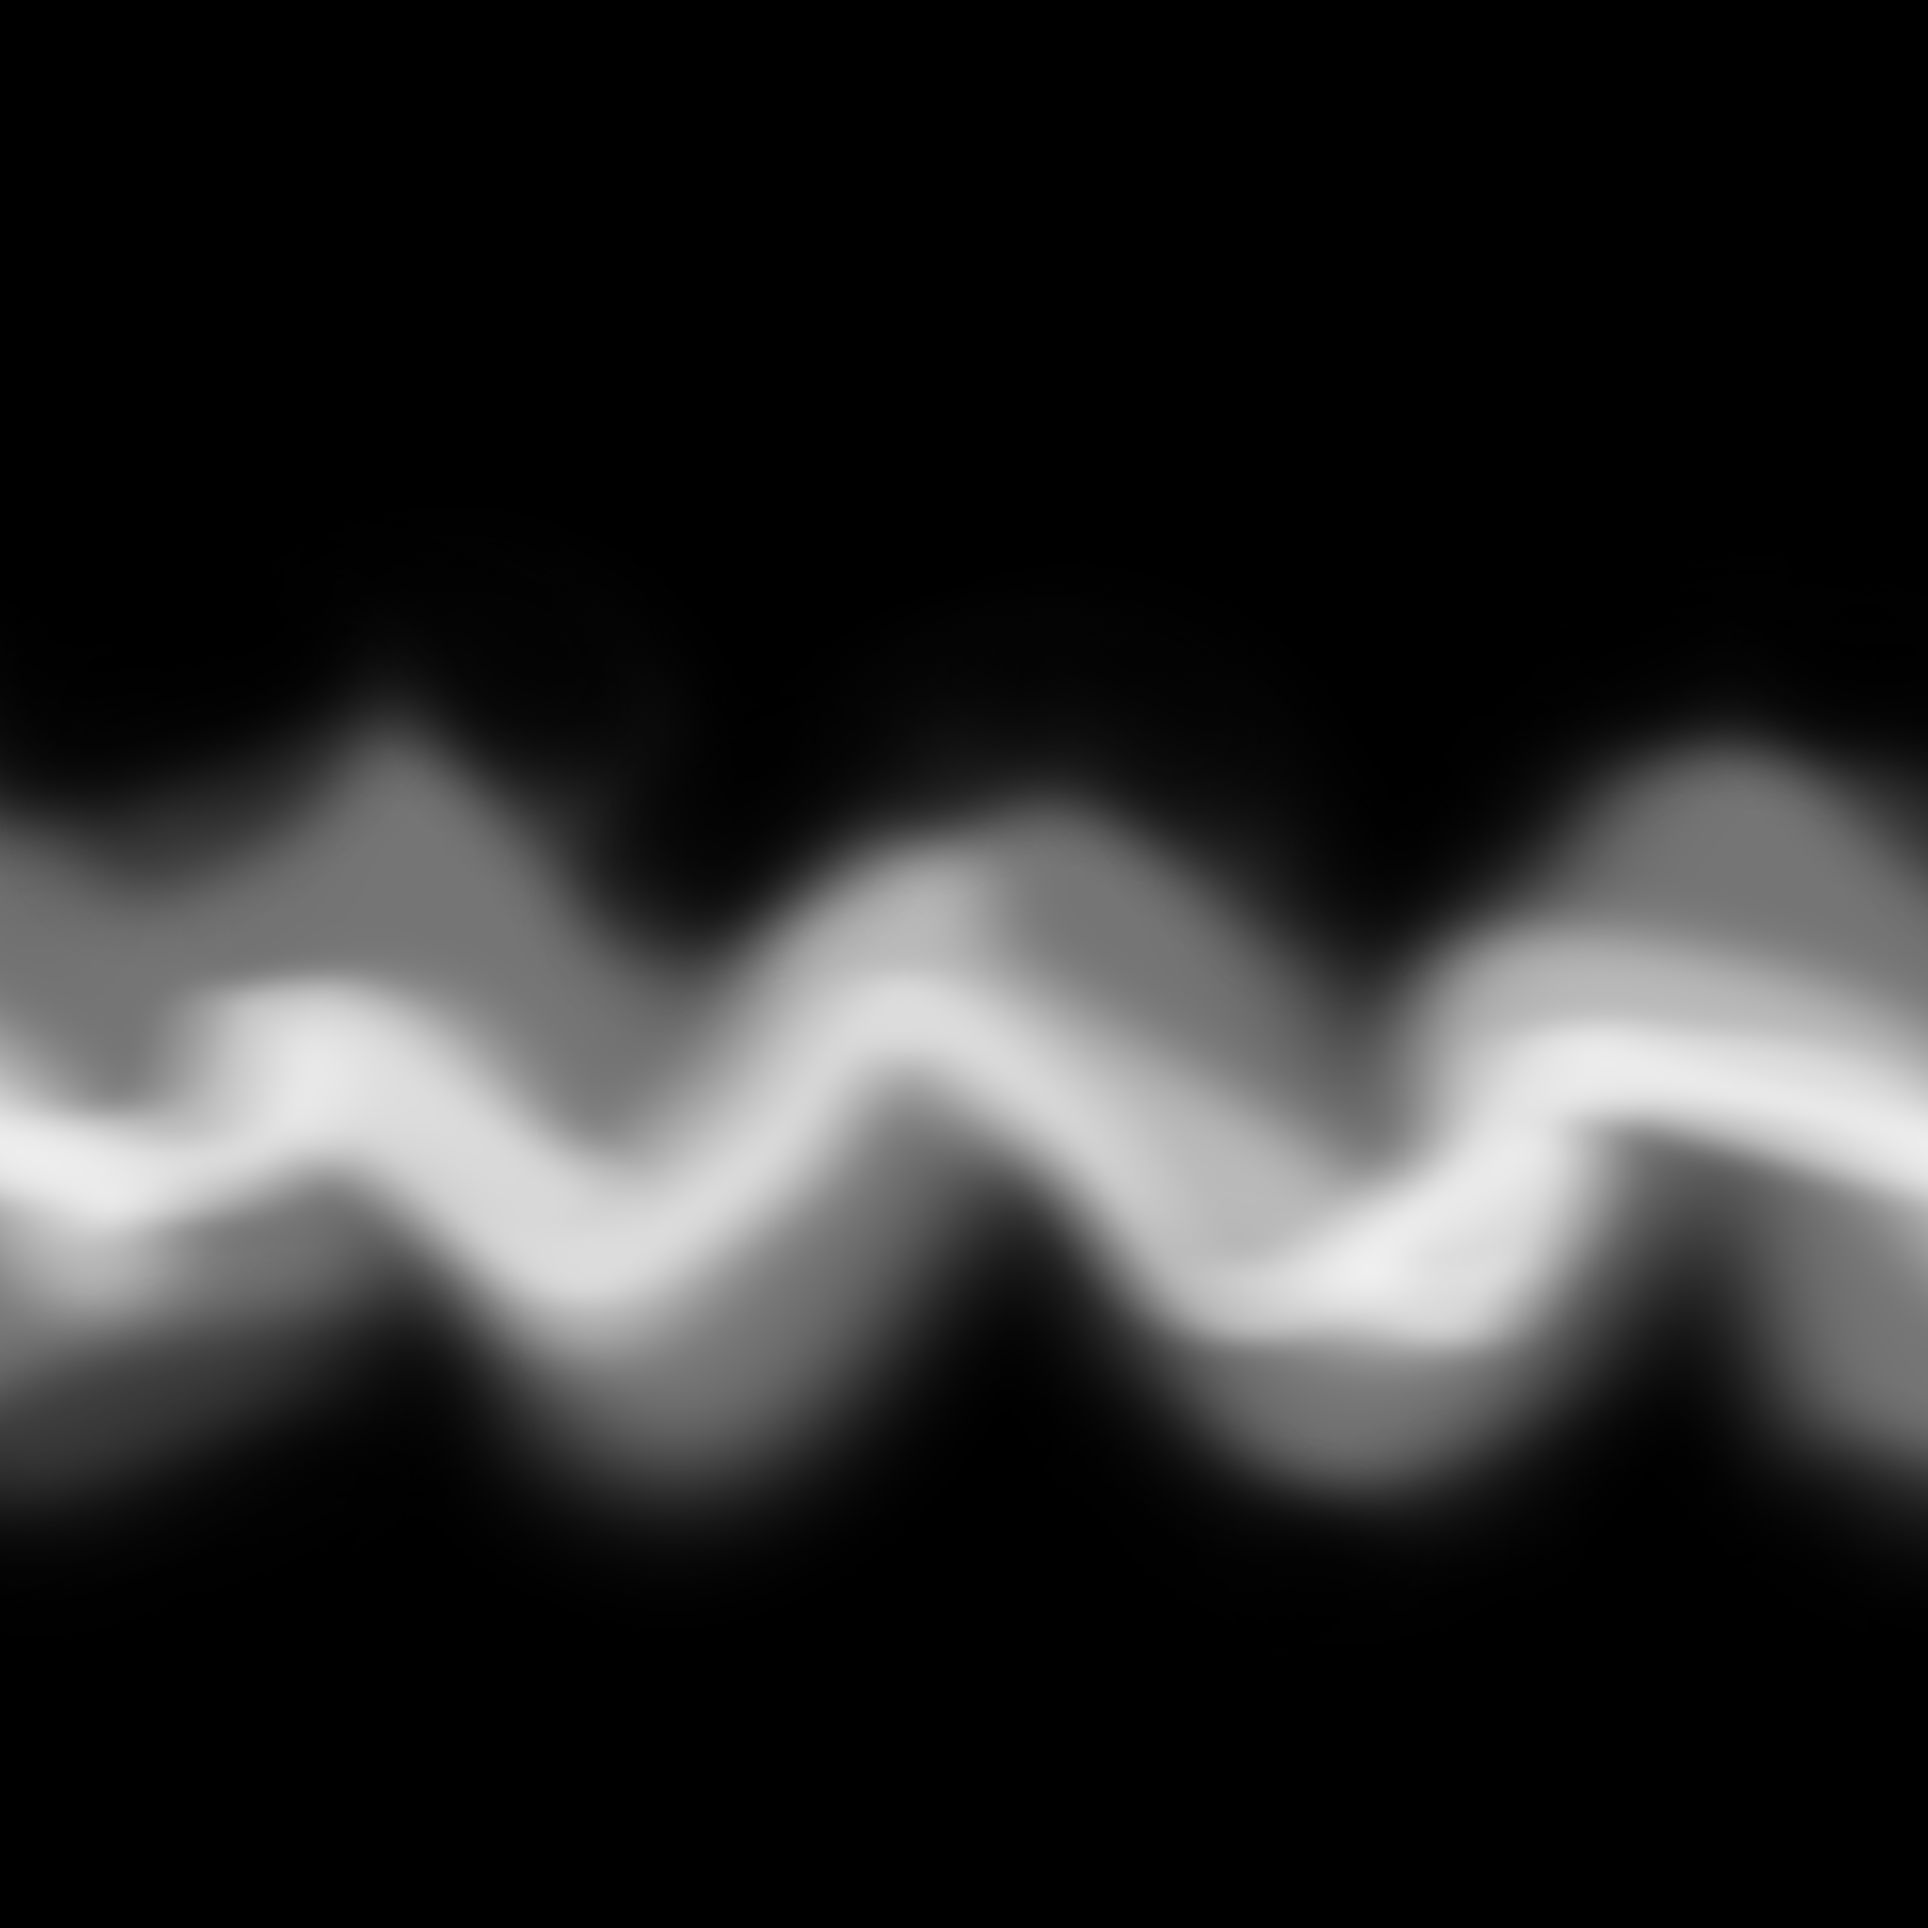
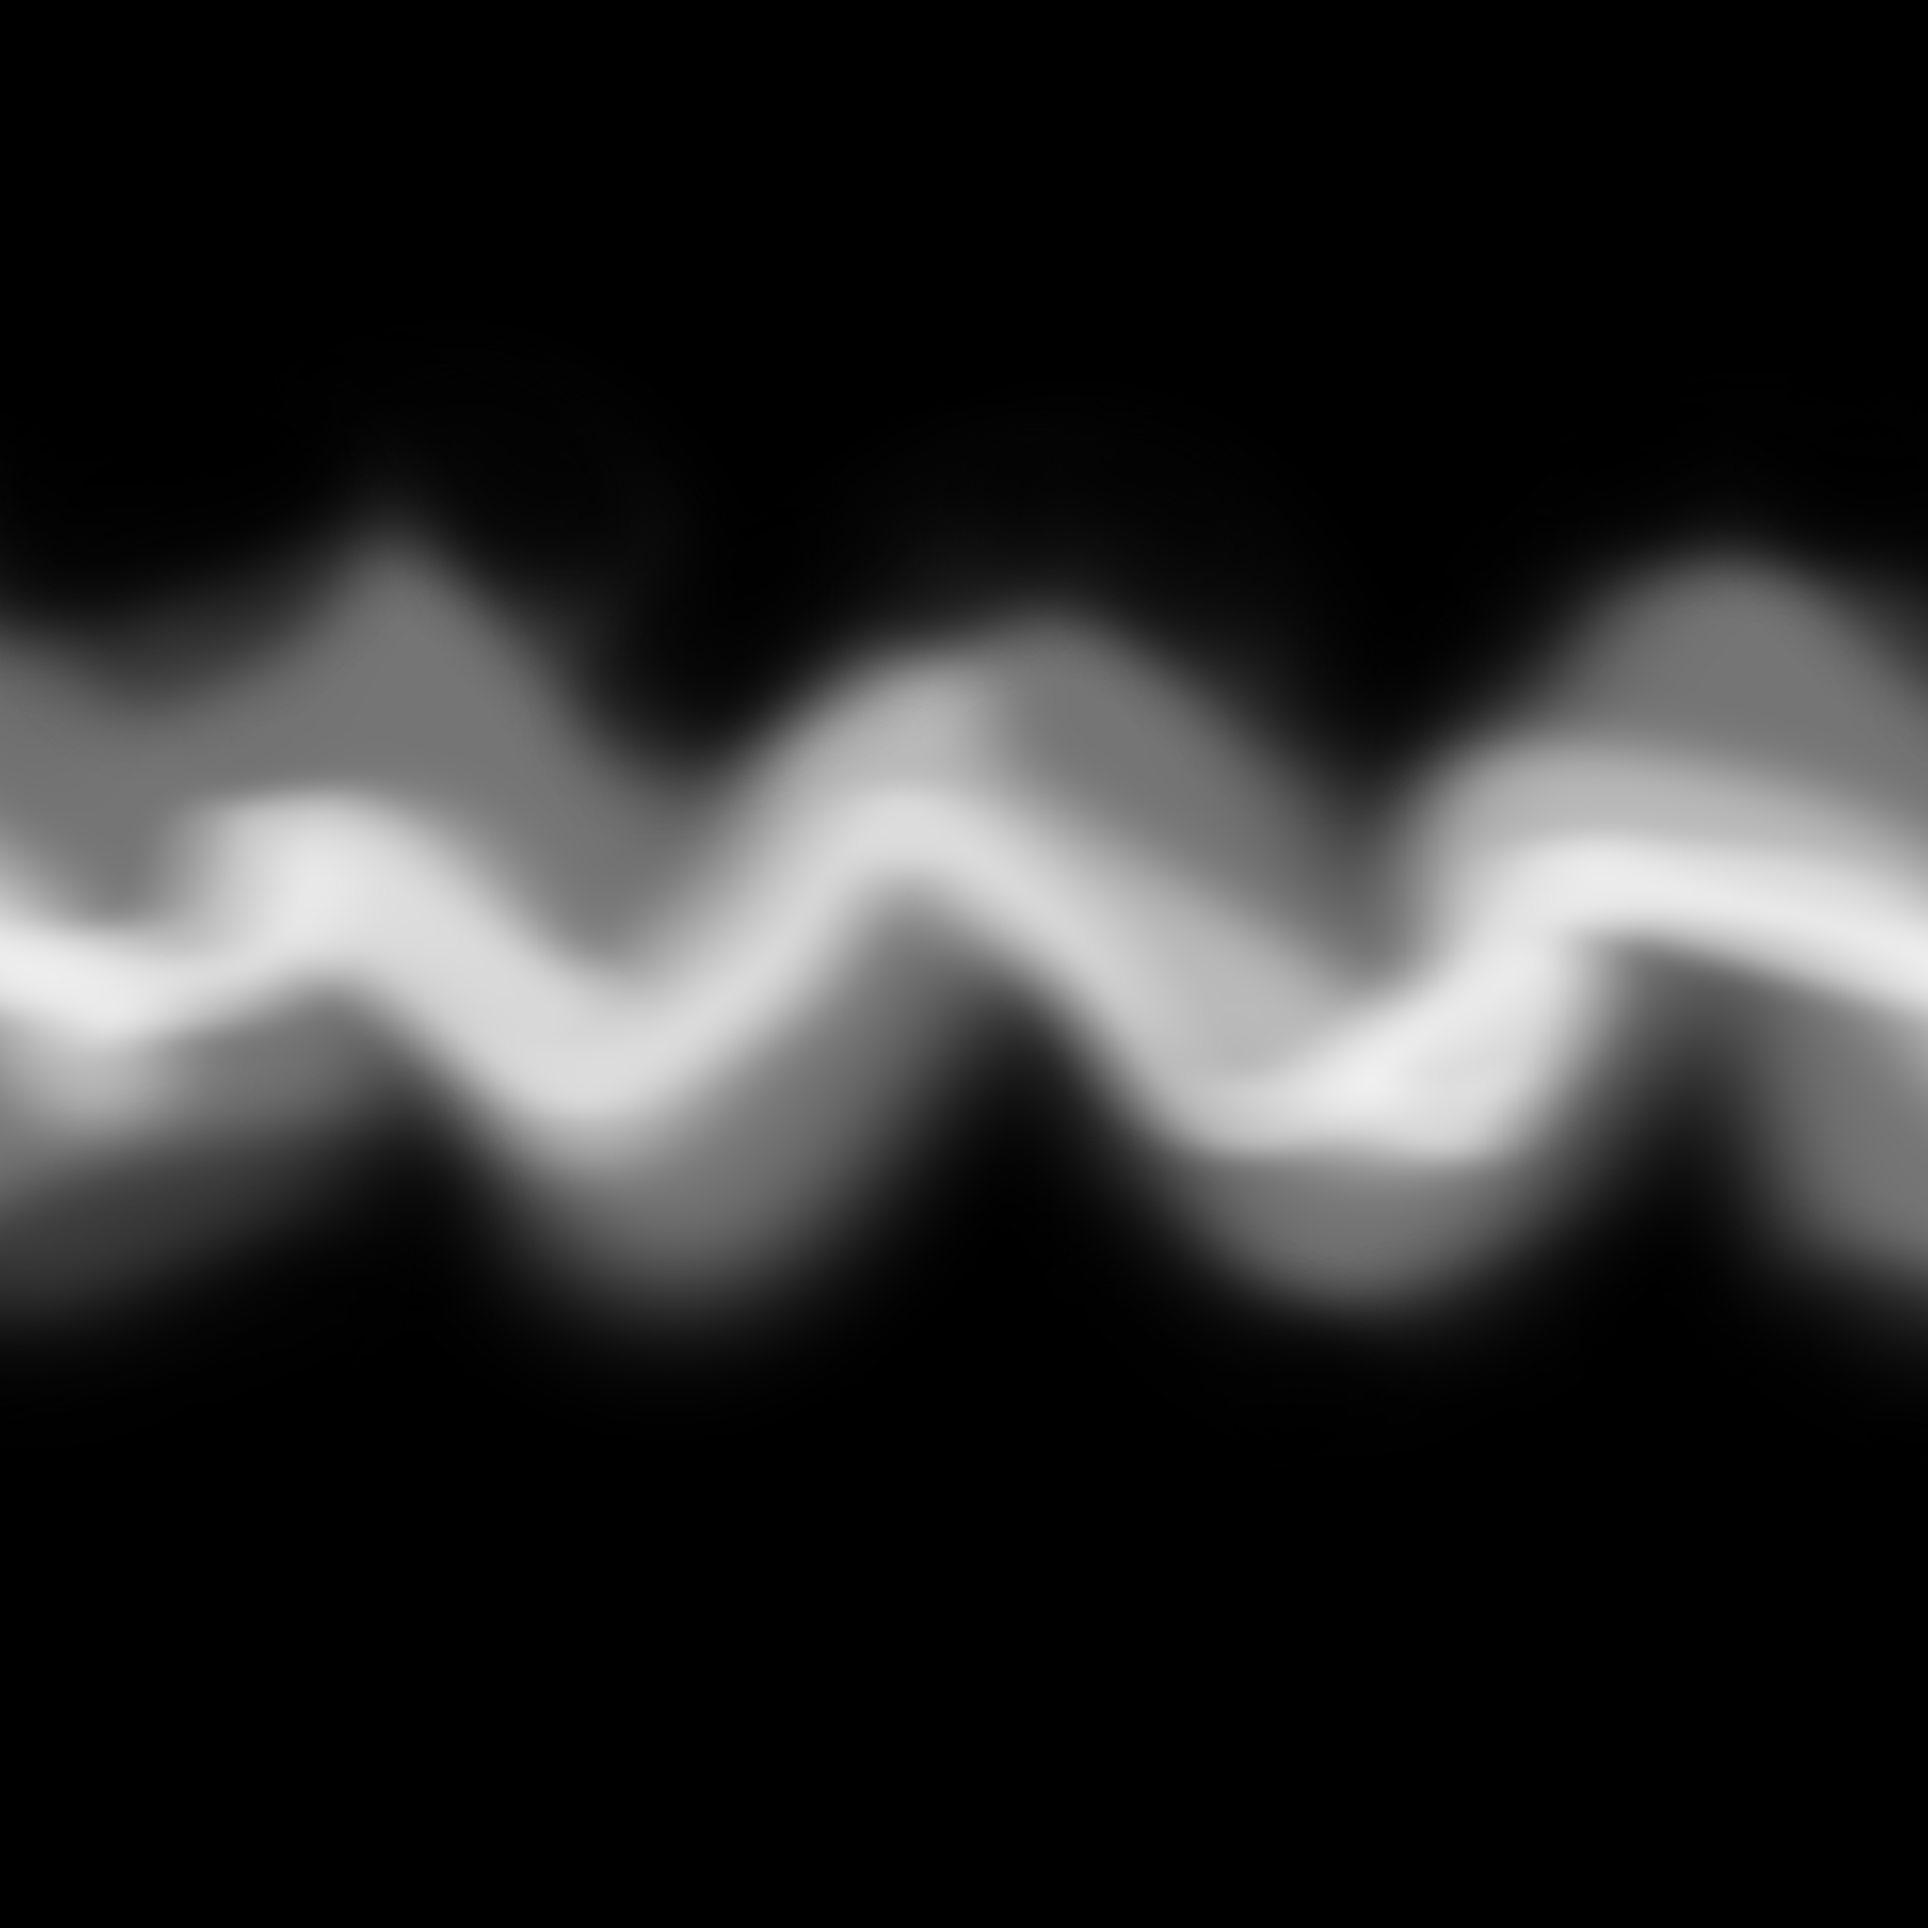
Improved Trail and texture

diff --git a/Assets/Scripts/Networking/NetworkPhysicsInteractable.cs b/Assets/Scripts/Networking/NetworkPhysicsInteractable.cs
@@ -1,6 +1,7 @@
 using System.Collections;
 using Unity.Netcode;
 using Unity.XR.PXR;
+using UnityEditor;
 using UnityEngine;
 using UnityEngine.XR.Interaction.Toolkit;
 
@@ -44,6 +45,13 @@ namespace XRMultiplayer
         [SerializeField] private AudioSource m_ThrowLightAudioSource;
         [SerializeField] private AudioSource m_ThrowStrongAudioSource;
 
+        // Trail
+        [Header("Trail Options")]
+        [SerializeField] private GameObject trailPrefab;
+
+        private TrailRenderer trail1;
+        private TrailRenderer trail2;
+
         public override void Awake()
         {
             base.Awake();
@@ -51,8 +59,17 @@ namespace XRMultiplayer
             m_Rigidbody = GetComponent<Rigidbody>();
             m_Collider = GetComponentInChildren<Collider>();
 
+
             interactorVelocityHistory = new Vector3[interactorFramesToCalculate];
 
+            GameObject trailInstance = Instantiate(trailPrefab, transform);
+        
+            TrailRenderer[] trails = trailInstance.GetComponentsInChildren<TrailRenderer>();
+            trail1 = trails[0];
+            trail2 = trails[1];
+
+            trail1.emitting = false;
+            trail2.emitting = false;
         }
 
         void FixedUpdate()
@@ -246,11 +263,19 @@ namespace XRMultiplayer
             // throw
             isThrown = true;
 
-            // play audio
-            if (m_Rigidbody.velocity.magnitude > 75.0f)
+            // play audio and trail
+            if (m_Rigidbody.velocity.magnitude > 75.0f) {
                 m_ThrowStrongAudioSource.Play();
-            else
-            m_ThrowLightAudioSource.Play();
+
+                trail1.emitting = true;
+                trail2.emitting = true;
+            }
+            else {
+                m_ThrowLightAudioSource.Play();
+
+                trail1.emitting = false;
+                trail2.emitting = false;
+            }
         }
 
         public override void OnGainedOwnership()
